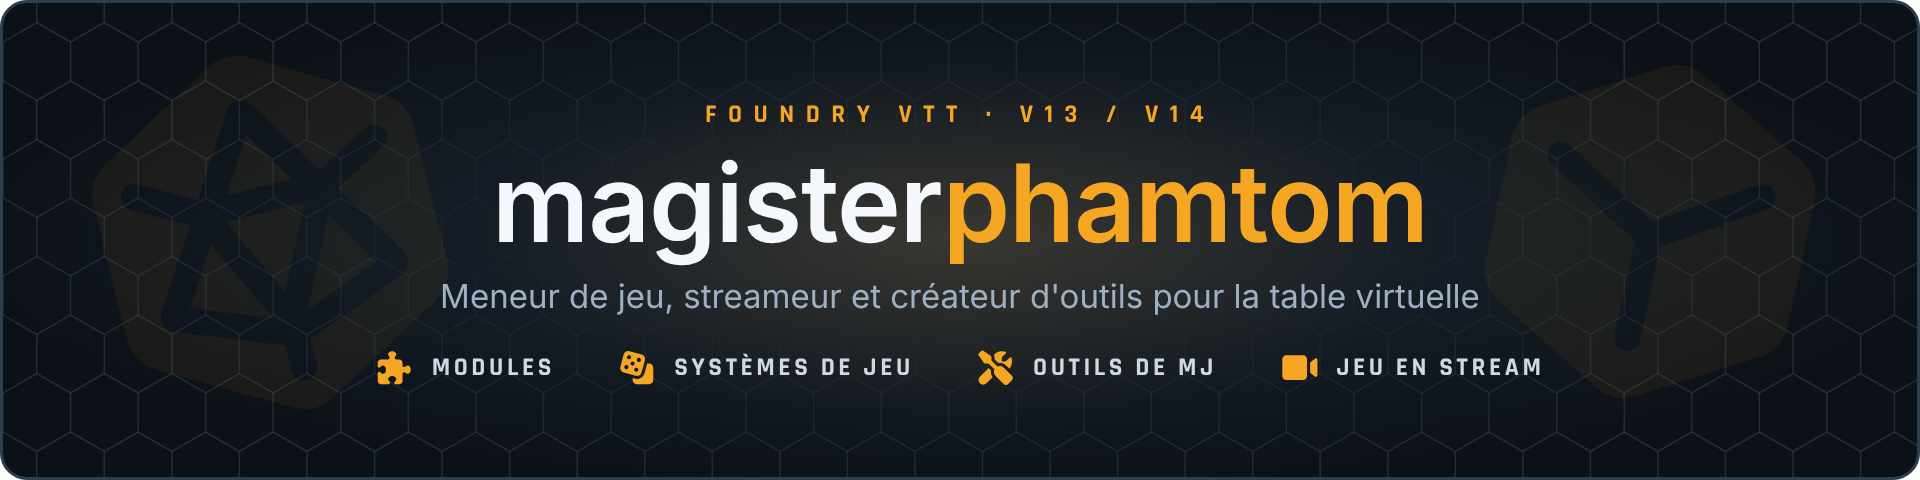
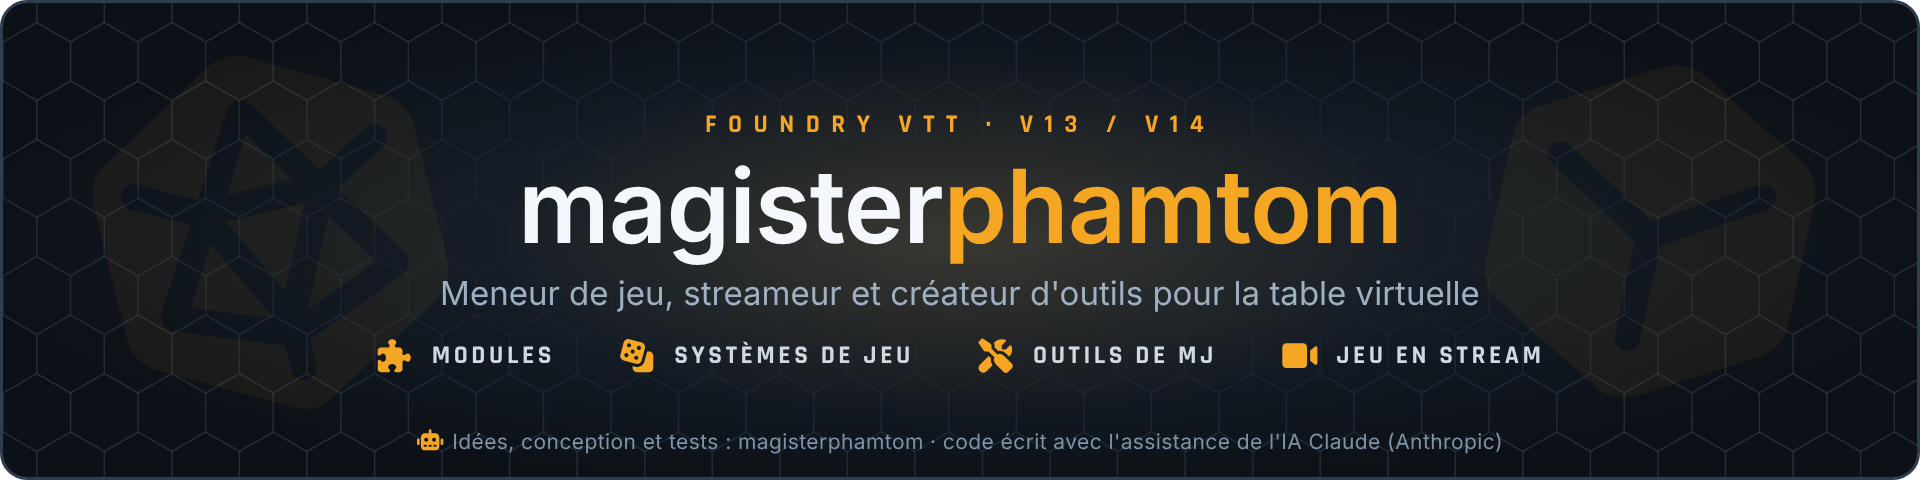
Bannière et page : mention de l'assistance de l'IA Claude
Claude-Session: https://claude.ai/code/session_01TxeAp6ehonV92YiysJEW6T

diff --git a/README.md b/README.md
@@ -4,6 +4,8 @@
 
 Meneur de jeu et streameur, je crée des **modules et des systèmes pour Foundry VTT** (v13 / v14), surtout pour L'Appel de Cthulhu et D&D 5e.
 
+> 🤖 **Transparence :** les idées, la conception, les choix et les tests sont les miens ; le code est écrit avec l'assistance de l'IA **Claude** (Anthropic).
+
 **Installer :** dans Foundry, *Modules complémentaires* (ou *Systèmes de jeu*) › *Installer* › coller le lien **manifeste** en bas de la fenêtre.
 
 > *GM and streamer making Foundry VTT modules and game systems (mostly in French). Paste the manifest link into Foundry's install dialog.*
